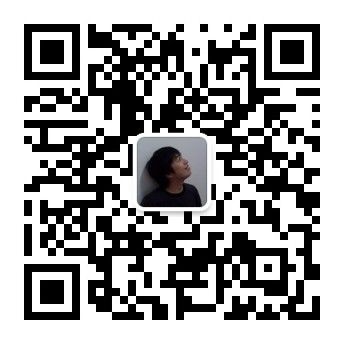
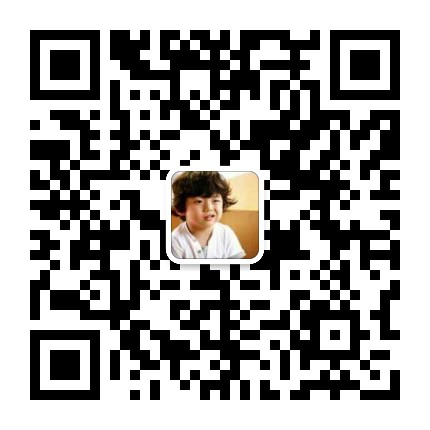
22

diff --git a/public/about/index.html b/public/about/index.html
@@ -24,12 +24,12 @@
 
 <meta itemprop="name" content="关于我 - Beyond Blog">
 <meta itemprop="description" content="大家好，我叫 Frank Li，是一名程序员。 我的经历 1999-2002 沈阳工程学院信息工程系 2002-2005 测试开发（东软）。 2005-2006 JAVA程序员（千像公司，互联网公司） 2006-2007 程序员（新思">
-<meta itemprop="image" content="https://surpass.github.io/public/public/coderzh.jpg">
+<meta itemprop="image" content="https://surpass.github.io/public/public/surpassli.jpg">
 
 <meta property="og:title" content="关于我 - Beyond Blog" />
 <meta property="og:type" content="article" />
 <meta property="og:url" content="https://surpass.github.io/public/about/" />
-<meta property="og:image" content="https://surpass.github.io/public/public/coderzh.jpg" />
+<meta property="og:image" content="https://surpass.github.io/public/public/surpassli.jpg" />
 <meta property="og:description" content="大家好，我叫 Frank Li，是一名程序员。 我的经历 1999-2002 沈阳工程学院信息工程系 2002-2005 测试开发（东软）。 2005-2006 JAVA程序员（千像公司，互联网公司） 2006-2007 程序员（新思">
 
 <meta name="twitter:card" content="summary">
@@ -37,7 +37,7 @@
 <meta name="twitter:title" content="关于我 - Beyond Blog">
 <meta name="twitter:description" content="大家好，我叫 Frank Li，是一名程序员。 我的经历 1999-2002 沈阳工程学院信息工程系 2002-2005 测试开发（东软）。 2005-2006 JAVA程序员（千像公司，互联网公司） 2006-2007 程序员（新思">
 <meta name="twitter:creator" content="@coderzh">
-<meta name="twitter:image" content="https://surpass.github.io/public/public/coderzh.jpg">
+<meta name="twitter:image" content="https://surpass.github.io/public/public/surpassli.jpg">
 
   <script>document.documentElement.className = document.documentElement.className.replace("no-js", "js");</script>
   <link rel="canonical" href="https://surpass.github.io/public/about/">
@@ -300,7 +300,7 @@
     </div>
     <div class="widget qrcode">
     <img src="https://surpass.github.io/public/public/qrcode.jpg" alt="qrcode" width="172px" height="172px"/>
-    <p> 微信扫一扫：<br/> 关注我的公众号： <br /> hacker-thinking <br /></p>
+    <p> 微信扫一扫：<br/> 关注我的微信号： <br /> s46488820 <br /></p>
 </div>
 
     <ul class="post-nav group">

diff --git a/public/categories/思考感悟/index.html b/public/categories/思考感悟/index.html
@@ -24,12 +24,12 @@
 
 <meta itemprop="name" content="思考感悟 - Beyond Blog">
 <meta itemprop="description" content="思考感悟">
-<meta itemprop="image" content="https://surpass.github.io/public/public/coderzh.jpg">
+<meta itemprop="image" content="https://surpass.github.io/public/public/surpassli.jpg">
 
 <meta property="og:title" content="思考感悟 - Beyond Blog" />
 <meta property="og:type" content="article" />
 <meta property="og:url" content="https://surpass.github.io/public/categories/%E6%80%9D%E8%80%83%E6%84%9F%E6%82%9F/" />
-<meta property="og:image" content="https://surpass.github.io/public/public/coderzh.jpg" />
+<meta property="og:image" content="https://surpass.github.io/public/public/surpassli.jpg" />
 <meta property="og:description" content="思考感悟">
 
 <meta name="twitter:card" content="summary">
@@ -37,7 +37,7 @@
 <meta name="twitter:title" content="思考感悟 - Beyond Blog">
 <meta name="twitter:description" content="思考感悟">
 <meta name="twitter:creator" content="@coderzh">
-<meta name="twitter:image" content="https://surpass.github.io/public/public/coderzh.jpg">
+<meta name="twitter:image" content="https://surpass.github.io/public/public/surpassli.jpg">
 
   <script>document.documentElement.className = document.documentElement.className.replace("no-js", "js");</script>
   <link rel="canonical" href="https://surpass.github.io/public/categories/%E6%80%9D%E8%80%83%E6%84%9F%E6%82%9F/">
@@ -222,7 +222,7 @@
     </div>
     <div class="widget qrcode">
     <img src="https://surpass.github.io/public/public/qrcode.jpg" alt="qrcode" width="172px" height="172px"/>
-    <p> 微信扫一扫：<br/> 关注我的公众号： <br /> hacker-thinking <br /></p>
+    <p> 微信扫一扫：<br/> 关注我的微信号： <br /> s46488820 <br /></p>
 </div>
 
     <div id="search-2" class="widget widget_search"><h3>Search</h3>

diff --git a/public/categories/技术文章/index.html b/public/categories/技术文章/index.html
@@ -24,12 +24,12 @@
 
 <meta itemprop="name" content="技术文章 - Beyond Blog">
 <meta itemprop="description" content="技术文章">
-<meta itemprop="image" content="https://surpass.github.io/public/public/coderzh.jpg">
+<meta itemprop="image" content="https://surpass.github.io/public/public/surpassli.jpg">
 
 <meta property="og:title" content="技术文章 - Beyond Blog" />
 <meta property="og:type" content="article" />
 <meta property="og:url" content="https://surpass.github.io/public/categories/%E6%8A%80%E6%9C%AF%E6%96%87%E7%AB%A0/" />
-<meta property="og:image" content="https://surpass.github.io/public/public/coderzh.jpg" />
+<meta property="og:image" content="https://surpass.github.io/public/public/surpassli.jpg" />
 <meta property="og:description" content="技术文章">
 
 <meta name="twitter:card" content="summary">
@@ -37,7 +37,7 @@
 <meta name="twitter:title" content="技术文章 - Beyond Blog">
 <meta name="twitter:description" content="技术文章">
 <meta name="twitter:creator" content="@coderzh">
-<meta name="twitter:image" content="https://surpass.github.io/public/public/coderzh.jpg">
+<meta name="twitter:image" content="https://surpass.github.io/public/public/surpassli.jpg">
 
   <script>document.documentElement.className = document.documentElement.className.replace("no-js", "js");</script>
   <link rel="canonical" href="https://surpass.github.io/public/categories/%E6%8A%80%E6%9C%AF%E6%96%87%E7%AB%A0/">
@@ -222,7 +222,7 @@
     </div>
     <div class="widget qrcode">
     <img src="https://surpass.github.io/public/public/qrcode.jpg" alt="qrcode" width="172px" height="172px"/>
-    <p> 微信扫一扫：<br/> 关注我的公众号： <br /> hacker-thinking <br /></p>
+    <p> 微信扫一扫：<br/> 关注我的微信号： <br /> s46488820 <br /></p>
 </div>
 
     <div id="search-2" class="widget widget_search"><h3>Search</h3>

diff --git a/public/categories/读书笔记/index.html b/public/categories/读书笔记/index.html
@@ -24,12 +24,12 @@
 
 <meta itemprop="name" content="读书笔记 - Beyond Blog">
 <meta itemprop="description" content="读书笔记">
-<meta itemprop="image" content="https://surpass.github.io/public/public/coderzh.jpg">
+<meta itemprop="image" content="https://surpass.github.io/public/public/surpassli.jpg">
 
 <meta property="og:title" content="读书笔记 - Beyond Blog" />
 <meta property="og:type" content="article" />
 <meta property="og:url" content="https://surpass.github.io/public/categories/%E8%AF%BB%E4%B9%A6%E7%AC%94%E8%AE%B0/" />
-<meta property="og:image" content="https://surpass.github.io/public/public/coderzh.jpg" />
+<meta property="og:image" content="https://surpass.github.io/public/public/surpassli.jpg" />
 <meta property="og:description" content="读书笔记">
 
 <meta name="twitter:card" content="summary">
@@ -37,7 +37,7 @@
 <meta name="twitter:title" content="读书笔记 - Beyond Blog">
 <meta name="twitter:description" content="读书笔记">
 <meta name="twitter:creator" content="@coderzh">
-<meta name="twitter:image" content="https://surpass.github.io/public/public/coderzh.jpg">
+<meta name="twitter:image" content="https://surpass.github.io/public/public/surpassli.jpg">
 
   <script>document.documentElement.className = document.documentElement.className.replace("no-js", "js");</script>
   <link rel="canonical" href="https://surpass.github.io/public/categories/%E8%AF%BB%E4%B9%A6%E7%AC%94%E8%AE%B0/">
@@ -222,7 +222,7 @@
     </div>
     <div class="widget qrcode">
     <img src="https://surpass.github.io/public/public/qrcode.jpg" alt="qrcode" width="172px" height="172px"/>
-    <p> 微信扫一扫：<br/> 关注我的公众号： <br /> hacker-thinking <br /></p>
+    <p> 微信扫一扫：<br/> 关注我的微信号： <br /> s46488820 <br /></p>
 </div>
 
     <div id="search-2" class="widget widget_search"><h3>Search</h3>

diff --git a/public/post/my-first-post/index.html b/public/post/my-first-post/index.html
@@ -24,12 +24,12 @@
 
 <meta itemprop="name" content="My First Post - Beyond Blog">
 <meta itemprop="description" content="这里是文章内容">
-<meta itemprop="image" content="https://surpass.github.io/public/public/coderzh.jpg">
+<meta itemprop="image" content="https://surpass.github.io/public/public/surpassli.jpg">
 
 <meta property="og:title" content="My First Post - Beyond Blog" />
 <meta property="og:type" content="article" />
 <meta property="og:url" content="https://surpass.github.io/public/post/my-first-post/" />
-<meta property="og:image" content="https://surpass.github.io/public/public/coderzh.jpg" />
+<meta property="og:image" content="https://surpass.github.io/public/public/surpassli.jpg" />
 <meta property="og:description" content="这里是文章内容">
 
 <meta name="twitter:card" content="summary">
@@ -37,7 +37,7 @@
 <meta name="twitter:title" content="My First Post - Beyond Blog">
 <meta name="twitter:description" content="这里是文章内容">
 <meta name="twitter:creator" content="@coderzh">
-<meta name="twitter:image" content="https://surpass.github.io/public/public/coderzh.jpg">
+<meta name="twitter:image" content="https://surpass.github.io/public/public/surpassli.jpg">
 
   <script>document.documentElement.className = document.documentElement.className.replace("no-js", "js");</script>
   <link rel="canonical" href="https://surpass.github.io/public/post/my-first-post/">
@@ -257,7 +257,7 @@
     </div>
     <div class="widget qrcode">
     <img src="https://surpass.github.io/public/public/qrcode.jpg" alt="qrcode" width="172px" height="172px"/>
-    <p> 微信扫一扫：<br/> 关注我的公众号： <br /> hacker-thinking <br /></p>
+    <p> 微信扫一扫：<br/> 关注我的微信号： <br /> s46488820 <br /></p>
 </div>
 
     <ul class="post-nav group">

diff --git a/public/404.html b/public/404.html
@@ -24,12 +24,12 @@
 
 <meta itemprop="name" content="404 Page not found - Beyond Blog">
 <meta itemprop="description" content="404 Page not found">
-<meta itemprop="image" content="https://surpass.github.io/public/public/coderzh.jpg">
+<meta itemprop="image" content="https://surpass.github.io/public/public/surpassli.jpg">
 
 <meta property="og:title" content="404 Page not found - Beyond Blog" />
 <meta property="og:type" content="article" />
 <meta property="og:url" content="" />
-<meta property="og:image" content="https://surpass.github.io/public/public/coderzh.jpg" />
+<meta property="og:image" content="https://surpass.github.io/public/public/surpassli.jpg" />
 <meta property="og:description" content="404 Page not found">
 
 <meta name="twitter:card" content="summary">
@@ -37,7 +37,7 @@
 <meta name="twitter:title" content="404 Page not found - Beyond Blog">
 <meta name="twitter:description" content="404 Page not found">
 <meta name="twitter:creator" content="@coderzh">
-<meta name="twitter:image" content="https://surpass.github.io/public/public/coderzh.jpg">
+<meta name="twitter:image" content="https://surpass.github.io/public/public/surpassli.jpg">
 
   <script>document.documentElement.className = document.documentElement.className.replace("no-js", "js");</script>
   <link rel="canonical" href="">
@@ -194,7 +194,7 @@
     </div>
     <div class="widget qrcode">
     <img src="https://surpass.github.io/public/public/qrcode.jpg" alt="qrcode" width="172px" height="172px"/>
-    <p> 微信扫一扫：<br/> 关注我的公众号： <br /> hacker-thinking <br /></p>
+    <p> 微信扫一扫：<br/> 关注我的微信号： <br /> s46488820 <br /></p>
 </div>
 
     <div id="search-2" class="widget widget_search"><h3>Search</h3>

diff --git a/public/post/index.html b/public/post/index.html
@@ -24,12 +24,12 @@
 
 <meta itemprop="name" content="Posts - Beyond Blog">
 <meta itemprop="description" content="Posts">
-<meta itemprop="image" content="https://surpass.github.io/public/public/coderzh.jpg">
+<meta itemprop="image" content="https://surpass.github.io/public/public/surpassli.jpg">
 
 <meta property="og:title" content="Posts - Beyond Blog" />
 <meta property="og:type" content="article" />
 <meta property="og:url" content="https://surpass.github.io/public/post/" />
-<meta property="og:image" content="https://surpass.github.io/public/public/coderzh.jpg" />
+<meta property="og:image" content="https://surpass.github.io/public/public/surpassli.jpg" />
 <meta property="og:description" content="Posts">
 
 <meta name="twitter:card" content="summary">
@@ -37,7 +37,7 @@
 <meta name="twitter:title" content="Posts - Beyond Blog">
 <meta name="twitter:description" content="Posts">
 <meta name="twitter:creator" content="@coderzh">
-<meta name="twitter:image" content="https://surpass.github.io/public/public/coderzh.jpg">
+<meta name="twitter:image" content="https://surpass.github.io/public/public/surpassli.jpg">
 
   <script>document.documentElement.className = document.documentElement.className.replace("no-js", "js");</script>
   <link rel="canonical" href="https://surpass.github.io/public/post/">
@@ -217,7 +217,7 @@
     </div>
     <div class="widget qrcode">
     <img src="https://surpass.github.io/public/public/qrcode.jpg" alt="qrcode" width="172px" height="172px"/>
-    <p> 微信扫一扫：<br/> 关注我的公众号： <br /> hacker-thinking <br /></p>
+    <p> 微信扫一扫：<br/> 关注我的微信号： <br /> s46488820 <br /></p>
 </div>
 
     <div id="search-2" class="widget widget_search"><h3>Search</h3>

diff --git a/public/index.html b/public/index.html
@@ -24,12 +24,12 @@
 
 <meta itemprop="name" content="Beyond Blog">
 <meta itemprop="description" content="Beyond Blog">
-<meta itemprop="image" content="https://surpass.github.io/public/public/coderzh.jpg">
+<meta itemprop="image" content="https://surpass.github.io/public/public/surpassli.jpg">
 
 <meta property="og:title" content="Beyond Blog" />
 <meta property="og:type" content="article" />
 <meta property="og:url" content="https://surpass.github.io/public/" />
-<meta property="og:image" content="https://surpass.github.io/public/public/coderzh.jpg" />
+<meta property="og:image" content="https://surpass.github.io/public/public/surpassli.jpg" />
 <meta property="og:description" content="Beyond Blog">
 
 <meta name="twitter:card" content="summary">
@@ -37,7 +37,7 @@
 <meta name="twitter:title" content="Beyond Blog">
 <meta name="twitter:description" content="Beyond Blog">
 <meta name="twitter:creator" content="@coderzh">
-<meta name="twitter:image" content="https://surpass.github.io/public/public/coderzh.jpg">
+<meta name="twitter:image" content="https://surpass.github.io/public/public/surpassli.jpg">
 
   <script>document.documentElement.className = document.documentElement.className.replace("no-js", "js");</script>
   <link rel="canonical" href="https://surpass.github.io/public/">
@@ -233,7 +233,7 @@
     </div>
     <div class="widget qrcode">
     <img src="https://surpass.github.io/public/public/qrcode.jpg" alt="qrcode" width="172px" height="172px"/>
-    <p> 微信扫一扫：<br/> 关注我的公众号： <br /> hacker-thinking <br /></p>
+    <p> 微信扫一扫：<br/> 关注我的微信号： <br /> s46488820 <br /></p>
 </div>
 
     <div id="search-2" class="widget widget_search"><h3>Search</h3>
